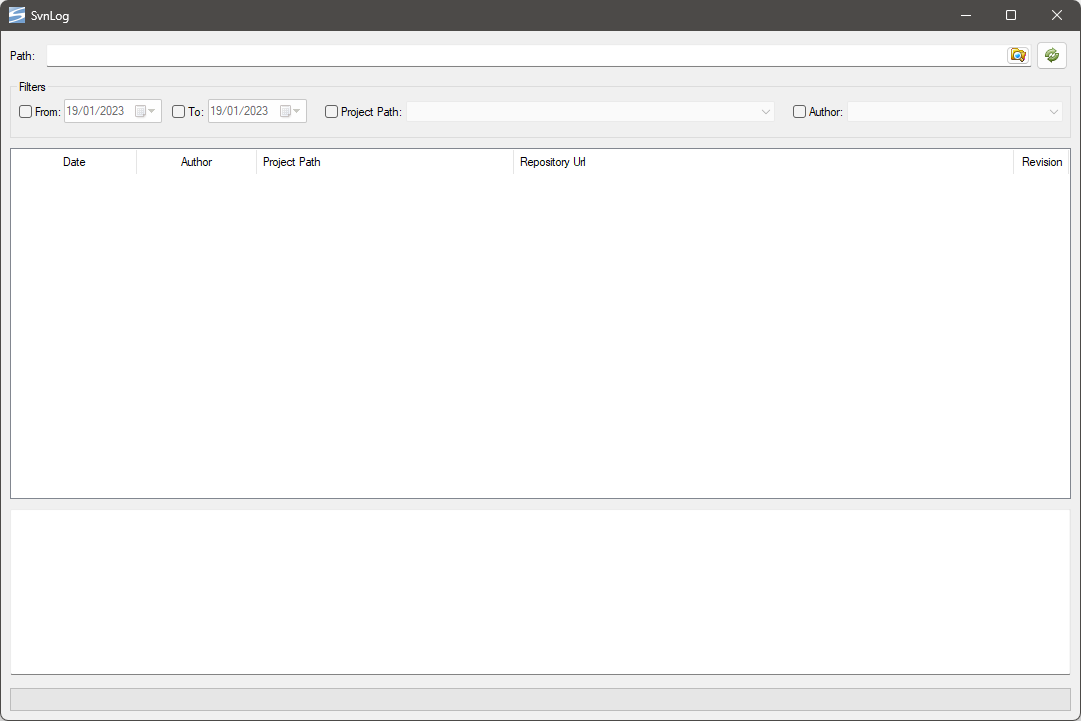
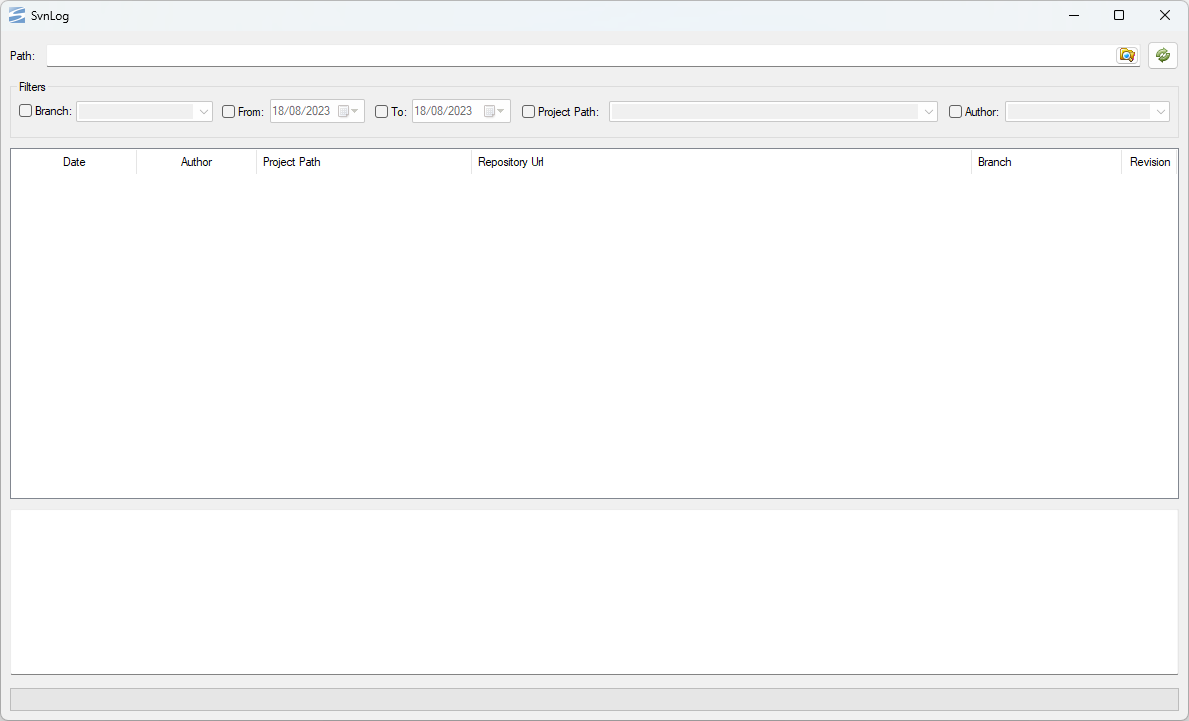
allow user to set regex for filtering: branch/project/author

diff --git a/src/SvnLogDlg.cpp b/src/SvnLogDlg.cpp
@@ -3,6 +3,7 @@
 #include "SvnLog.h"
 #include "SvnLogDlg.h"
 #include "afxdialogex.h"
+#include <filesystem>
 
 // include flat design manifest
 #pragma comment(linker,"\"/manifestdependency:type='win32' \
@@ -39,9 +40,9 @@ CSvnLogDlg::CSvnLogDlg(CWnd* pParent)
   m_path_ctrl(WM_BROWSE_CTRL_UPDATE),
   m_path(),
   m_list_ctrl(),
-  m_combo_branch(),
   m_date_from(),
   m_date_to(),
+  m_combo_branch(),
   m_combo_project(),
   m_combo_author(),
   m_edit(),
@@ -74,9 +75,9 @@ void CSvnLogDlg::DoDataExchange(CDataExchange* pDX)
   CDialog::DoDataExchange(pDX);
   DDX_Control(pDX, IDC_MFCEDITBROWSE, m_path_ctrl);
   DDX_Control(pDX, IDC_LIST, m_list_ctrl);
-  DDX_Control(pDX, IDC_COMBO_BRANCH, m_combo_branch);
   DDX_Control(pDX, IDC_DATETIMEPICKER_FROM, m_date_from);
   DDX_Control(pDX, IDC_DATETIMEPICKER_TO, m_date_to);
+  DDX_Control(pDX, IDC_COMBO_BRANCH, m_combo_branch);
   DDX_Control(pDX, IDC_COMBO_PROJECT, m_combo_project);
   DDX_Control(pDX, IDC_COMBO_AUTHOR, m_combo_author);
   DDX_Text(pDX, IDC_EDIT, m_edit);
@@ -100,9 +101,12 @@ BEGIN_MESSAGE_MAP(CSvnLogDlg, CDialog)
   ON_BN_CLICKED(IDC_CHECK_TO, &CSvnLogDlg::OnBnClickedCheckTo)
   ON_BN_CLICKED(IDC_CHECK_PROJECT, &CSvnLogDlg::OnBnClickedCheckProject)
   ON_BN_CLICKED(IDC_CHECK_AUTHOR, &CSvnLogDlg::OnBnClickedCheckAuthor)
+  ON_CBN_KILLFOCUS(IDC_COMBO_BRANCH, &CSvnLogDlg::OnComboBranchEdited)
+  ON_CBN_KILLFOCUS(IDC_COMBO_PROJECT, &CSvnLogDlg::OnComboProjectEdited)
+  ON_CBN_KILLFOCUS(IDC_COMBO_AUTHOR, &CSvnLogDlg::OnComboAuthorEdited)
   ON_CBN_SELENDOK(IDC_COMBO_BRANCH, &CSvnLogDlg::OnComboBranchChanged)
-  ON_CBN_SELENDOK(IDC_COMBO_AUTHOR, &CSvnLogDlg::OnComboAuthorChanged)
   ON_CBN_SELENDOK(IDC_COMBO_PROJECT, &CSvnLogDlg::OnComboProjectChanged)
+  ON_CBN_SELENDOK(IDC_COMBO_AUTHOR, &CSvnLogDlg::OnComboAuthorChanged)
   ON_NOTIFY(DTN_DATETIMECHANGE, IDC_DATETIMEPICKER_FROM, &CSvnLogDlg::OnDateFromChanged)
   ON_NOTIFY(DTN_DATETIMECHANGE, IDC_DATETIMEPICKER_TO, &CSvnLogDlg::OnDateToChanged)
   ON_REGISTERED_MESSAGE(WM_BROWSE_CTRL_UPDATE, &CSvnLogDlg::OnPathChanged)
@@ -357,6 +361,39 @@ void CSvnLogDlg::OnBnClickedCheckAuthor()
   UpdateGui();
 }
 
+void CSvnLogDlg::OnComboBranchEdited()
+{
+  CString str;
+  m_combo_branch.GetWindowTextW(str);
+  if (!str.IsEmpty())
+  {
+    m_commits.enable_filter_branch(to_string(str));
+    UpdateGui();
+  }
+}
+
+void CSvnLogDlg::OnComboProjectEdited()
+{
+  CString str;
+  m_combo_project.GetWindowTextW(str);
+  if (!str.IsEmpty())
+  {
+    m_commits.enable_filter_project(to_string(str));
+    UpdateGui();
+  }
+}
+
+void CSvnLogDlg::OnComboAuthorEdited()
+{
+  CString str;
+  m_combo_author.GetWindowTextW(str);
+  if (!str.IsEmpty())
+  {
+    m_commits.enable_filter_author(to_string(str));
+    UpdateGui();
+  }
+}
+
 void CSvnLogDlg::OnComboBranchChanged()
 {
   if (m_combo_branch.GetCurSel() != -1)
@@ -368,17 +405,6 @@ void CSvnLogDlg::OnComboBranchChanged()
   }
 }
 
-void CSvnLogDlg::OnComboAuthorChanged()
-{
-  if (m_combo_author.GetCurSel() != -1)
-  {
-    CString str;
-    m_combo_author.GetLBText(m_combo_author.GetCurSel(), str);
-    m_commits.enable_filter_author(to_string(str));
-    UpdateGui();
-  }
-}
-
 void CSvnLogDlg::OnComboProjectChanged()
 {
   if (m_combo_project.GetCurSel() != -1)
@@ -386,6 +412,17 @@ void CSvnLogDlg::OnComboProjectChanged()
     CString str;
     m_combo_project.GetLBText(m_combo_project.GetCurSel(), str);
     m_commits.enable_filter_project(to_string(str));
+    UpdateGui();
+  }
+}
+
+void CSvnLogDlg::OnComboAuthorChanged()
+{
+  if (m_combo_author.GetCurSel() != -1)
+  {
+    CString str;
+    m_combo_author.GetLBText(m_combo_author.GetCurSel(), str);
+    m_commits.enable_filter_author(to_string(str));
     UpdateGui();
   }
 }
@@ -414,10 +451,13 @@ LRESULT CSvnLogDlg::OnPathChanged(WPARAM wparam, LPARAM lparam)
 
   // retrieve path from control
   m_path_ctrl.GetWindowText(m_path);
-
-  // notify thread to begin scan
-  LockCtrl();
-  Notify(Task::Scan);
+  if (!m_path.IsEmpty() &&
+      std::filesystem::is_directory(m_path.GetString()))
+  {
+    // notify thread to begin scan
+    LockCtrl();
+    Notify(Task::Scan);
+  }
   return 0;
 }
 
@@ -542,19 +582,23 @@ void CSvnLogDlg::Notify(const enum class Task task)
 
 void CSvnLogDlg::OnOK()
 {
-  OnPathChanged(0, 0);
+  // avoid closing the dialog
+  //  force the killfocus event on the previous selected control
+  NextDlgCtrl();
+  PrevDlgCtrl();
 }
 
-void CSvnLogDlg::LockCtrl(const std::vector<uint32_t>& handles)
+void CSvnLogDlg::LockCtrl(const std::vector<uint32_t>& handles, bool display_wait_cursor)
 {
-  m_locked = true;
+  if(display_wait_cursor)
+    m_locked = true;
   if (handles.empty())
   {
     GetDlgItem(IDC_MFCEDITBROWSE)->EnableWindow(FALSE);
     GetDlgItem(IDC_BUTTON_REFRESH)->EnableWindow(FALSE);
-    GetDlgItem(IDC_CHECK_BRANCH)->EnableWindow(FALSE);
     GetDlgItem(IDC_CHECK_FROM)->EnableWindow(FALSE);
     GetDlgItem(IDC_CHECK_TO)->EnableWindow(FALSE);
+    GetDlgItem(IDC_CHECK_BRANCH)->EnableWindow(FALSE);
     GetDlgItem(IDC_CHECK_PROJECT)->EnableWindow(FALSE);
     GetDlgItem(IDC_CHECK_AUTHOR)->EnableWindow(FALSE);
     GetDlgItem(IDC_COMBO_BRANCH)->EnableWindow(FALSE);
@@ -578,14 +622,17 @@ void CSvnLogDlg::UnlockCtrl(const std::vector<uint32_t>& handles)
   {
     GetDlgItem(IDC_MFCEDITBROWSE)->EnableWindow(TRUE);
     GetDlgItem(IDC_BUTTON_REFRESH)->EnableWindow(TRUE);
-    GetDlgItem(IDC_CHECK_BRANCH)->EnableWindow(TRUE);
     GetDlgItem(IDC_CHECK_FROM)->EnableWindow(TRUE);
     GetDlgItem(IDC_CHECK_TO)->EnableWindow(TRUE);
+    GetDlgItem(IDC_CHECK_BRANCH)->EnableWindow(TRUE);
     GetDlgItem(IDC_CHECK_PROJECT)->EnableWindow(TRUE);
     GetDlgItem(IDC_CHECK_AUTHOR)->EnableWindow(TRUE);
-    GetDlgItem(IDC_COMBO_BRANCH)->EnableWindow(TRUE);
-    GetDlgItem(IDC_COMBO_PROJECT)->EnableWindow(TRUE);
-    GetDlgItem(IDC_COMBO_AUTHOR)->EnableWindow(TRUE);
+    if (IsDlgButtonChecked(IDC_CHECK_BRANCH) == BST_CHECKED)
+      GetDlgItem(IDC_COMBO_BRANCH)->EnableWindow(TRUE);
+    if (IsDlgButtonChecked(IDC_CHECK_PROJECT) == BST_CHECKED) 
+      GetDlgItem(IDC_COMBO_PROJECT)->EnableWindow(TRUE);
+    if (IsDlgButtonChecked(IDC_CHECK_AUTHOR) == BST_CHECKED)
+      GetDlgItem(IDC_COMBO_AUTHOR)->EnableWindow(TRUE);
     GetDlgItem(IDC_LIST)->EnableWindow(TRUE);
     GetDlgItem(IDC_EDIT)->EnableWindow(TRUE);
     GetDlgItem(IDC_PROGRESS)->EnableWindow(TRUE);
@@ -597,13 +644,33 @@ void CSvnLogDlg::UnlockCtrl(const std::vector<uint32_t>& handles)
   }
 }
 
-void CSvnLogDlg::UpdateGui(const bool update_commits)
+void CSvnLogDlg::UpdateGui(bool reset_controls)
 {
   // sort and filter commits - disable redraw CListCtrl between updates
   m_list_ctrl.SetRedraw(false);
   m_list_ctrl.DeleteAllItems();
-  if (update_commits)
+  if (reset_controls)
   {
+    // reset all controls
+    static_cast<CButton*>(GetDlgItem(IDC_CHECK_FROM))->SetCheck(BST_UNCHECKED);
+    static_cast<CButton*>(GetDlgItem(IDC_CHECK_TO))->SetCheck(BST_UNCHECKED);
+    static_cast<CButton*>(GetDlgItem(IDC_CHECK_BRANCH))->SetCheck(BST_UNCHECKED);
+    static_cast<CButton*>(GetDlgItem(IDC_CHECK_PROJECT))->SetCheck(BST_UNCHECKED);
+    static_cast<CButton*>(GetDlgItem(IDC_CHECK_AUTHOR))->SetCheck(BST_UNCHECKED);
+    LockCtrl({IDC_DATETIMEPICKER_FROM, 
+              IDC_DATETIMEPICKER_TO,
+              IDC_COMBO_BRANCH, 
+              IDC_COMBO_PROJECT, 
+              IDC_COMBO_AUTHOR},
+             false);
+
+    // disable all filters
+    m_commits.disable_filter_from();
+    m_commits.disable_filter_to();
+    m_commits.disable_filter_branch();
+    m_commits.disable_filter_project();
+    m_commits.disable_filter_author();
+
     // sort commits
     m_commits.set_commits(m_repos.get_commits());
 

diff --git a/src/FilteredCommits.cpp b/src/FilteredCommits.cpp
@@ -3,6 +3,7 @@
 #include "DateConverter.h"
 #include "FilteredCommits.h"
 #include <fmt/core.h>
+#include <filesystem>
 #include <regex>
 
 // constructor
@@ -155,6 +156,13 @@ void FilteredCommits::disable_filter_author()
 
 void FilteredCommits::filter_commits()
 {
+  // convert from std::string to regex filters
+  const std::regex& r_branch = std::regex(m_branch);
+  const std::regex& r_project = std::filesystem::is_directory(m_project) ?
+      std::regex(std::regex_replace(m_project, std::regex(R"(\\)"), "\\\\") + "$") :
+      std::regex(m_project);
+  const std::regex& r_author = std::regex(m_author);
+
   // construct list of sorted and filtered commits
   m_filtered.clear();
   for (const auto& c : m_sorted)
@@ -169,23 +177,29 @@ void FilteredCommits::filter_commits()
       (m_date_to < c->date))
       continue;
 
-    // apply filter: branch
-    if (m_branch_enabled &&
-      (m_branch != c->branch))
-      continue;
+    try
+    {
+      // apply regex-filter: branch
+      if (m_branch_enabled &&
+        !std::regex_search(c->branch, r_branch))
+        continue;
 
-    // apply filter: project
-    if (m_project_enabled &&
-      (m_project != c->repos))
-      continue;
+      // apply regex-filter: project
+      if (m_project_enabled &&
+        !std::regex_search(c->repos, r_project))
+        continue;
 
-    // apply filter: author
-    if (m_author_enabled &&
-      (m_author != c->author))
-      continue;
+      // apply regex-filter: author
+      if (m_author_enabled &&
+        !std::regex_search(c->author, r_author))
+        continue;
 
-    // add the filtered commit
-    m_filtered.push_back(c);
+      // add the filtered commit
+      m_filtered.push_back(c);
+    }
+    catch (...)
+    {
+    }
   }
 }
 

diff --git a/src/SvnLogDlg.h b/src/SvnLogDlg.h
@@ -51,9 +51,12 @@ protected:
   afx_msg void OnBnClickedCheckTo();
   afx_msg void OnBnClickedCheckProject();
   afx_msg void OnBnClickedCheckAuthor();
+  afx_msg void OnComboBranchEdited();
+  afx_msg void OnComboProjectEdited();
+  afx_msg void OnComboAuthorEdited();
   afx_msg void OnComboBranchChanged();
-  afx_msg void OnComboAuthorChanged();
   afx_msg void OnComboProjectChanged();
+  afx_msg void OnComboAuthorChanged();
   afx_msg void OnDateFromChanged(NMHDR* pNMHDR, LRESULT* pResult);
   afx_msg void OnDateToChanged(NMHDR* pNMHDR, LRESULT* pResult);
   afx_msg LRESULT OnPathChanged(WPARAM wparam, LPARAM lparam);
@@ -70,11 +73,11 @@ private:
   void OnOK() override;
 
   // lock/unlock the interface
-  void LockCtrl(const std::vector<uint32_t>& handles = {});
+  void LockCtrl(const std::vector<uint32_t>& handles = {}, bool display_wait_cursor = true);
   void UnlockCtrl(const std::vector<uint32_t>& handles = {});
 
   // update mfc controls
-  void UpdateGui(const bool update_commits = false);
+  void UpdateGui(bool reset_controls = false);
 
 private:
   // mfc gui parameters
@@ -86,9 +89,9 @@ private:
   CBrowseCtrl m_path_ctrl;
   CString m_path;
   CAutoListCtrl m_list_ctrl;
-  CComboBox m_combo_branch;
   CDateTimeCtrl m_date_from;
   CDateTimeCtrl m_date_to;
+  CComboBox m_combo_branch;
   CComboBox m_combo_project;
   CComboBox m_combo_author;
   CString m_edit;

diff --git a/README.md b/README.md
@@ -17,7 +17,8 @@ It uses the `winpp` header-only library from: https://github.com/strinque/winpp.
 - [x] use multi-thread to retrieve informations for each **SVN** repository - display progress with progress-bar
 - [x] store all commits informations into a `json` file
 - [x] differential update: only retrieve commits infos newer than those stored previously
-- [x] multiple filters: `From`, `To`, `Project Path`, `Author`
+- [x] date filters: `From`, `To`
+- [x] regex filters:  `Branch`, `Project Path`, `Author`
 
 ## Requirements
 
